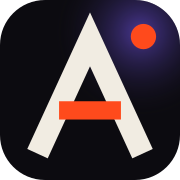
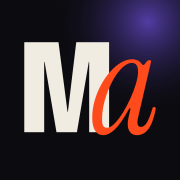
Replace the "A." mark with a "Ma" monogram
The new logo pairs the site's two type voices: a heavy condensed
Bricolage Grotesque M with an orange Instrument Serif italic a, baked
from the real font outlines. Regenerated favicon.svg, the 32/192/512 PNG
icons and a full-bleed Apple touch icon. In the navbar the italic a tips
like a pen stroke on hover.

diff --git a/src/components/ui/Logo.jsx b/src/components/ui/Logo.jsx
@@ -1,10 +1,14 @@
-/** "A" monogram — same mark as the favicon. Inherits currentColor. */
+/**
+ * "Ma" monogram — the site's two type voices in one mark: a Bricolage Grotesque
+ * (800, condensed) M with an Instrument Serif italic a. Outlines are baked from the
+ * real fonts, so it renders identically everywhere (favicon.svg uses the same paths).
+ * The M inherits currentColor; the a uses the accent. Hover tilt: .logo-mark in index.css.
+ */
 export default function Logo({ className = '' }) {
   return (
-    <svg viewBox="0 0 64 64" className={className} aria-hidden="true">
-      <path d="M15 51 L32 14 L49 51" fill="none" stroke="currentColor" strokeWidth="8" strokeLinejoin="miter" strokeLinecap="square" />
-      <rect x="21" y="36" width="22" height="6.5" fill="var(--accent)" />
-      <circle cx="51" cy="13" r="4.5" fill="var(--accent)" />
+    <svg viewBox="7 14 50 36" className={`logo-mark ${className}`} aria-hidden="true">
+      <path className="lm-m" fill="currentColor" d="M8.63 47L8.63 15L20.8 15L24 39.73L24.15 39.73L27.11 15L38.79 15L38.79 47L31.71 47L31.71 22.03L31.57 22.03L27.35 47L20.08 47L15.86 22.03L15.71 22.03L15.71 47Z" />
+      <path className="lm-a" fill="var(--accent)" d="M36.7 48.06Q34.85 48.06 33.82 46.47Q32.79 44.87 32.79 41.79Q32.79 38.86 33.61 35.9Q34.44 32.94 35.88 30.27Q37.32 27.59 39.14 25.54Q40.97 23.48 43 22.27Q45.03 21.06 47.04 21.06Q48.01 21.06 48.89 21.45Q49.76 21.83 50.33 22.66Q50.64 23.12 50.94 23.12Q51.25 23.12 51.56 22.66Q52.13 21.83 52.49 21.6Q52.85 21.37 53.16 21.37Q53.82 21.37 53.67 22.09L49.09 41.79Q48.32 45.13 50.12 45.13Q51.3 45.13 52.26 43.54Q53.21 41.94 54.18 38.6Q54.34 38.03 54.85 38.03Q55.21 38.03 55.32 38.34Q55.42 38.65 55.32 39.06Q54.34 43.9 52.69 45.98Q51.05 48.06 48.73 48.06Q46.73 48.06 45.88 46.37Q45.03 44.67 45.7 41.74L46.37 38.91Q46.47 38.55 46.24 38.5Q46.01 38.45 45.85 38.75Q43.02 43.95 40.84 46.01Q38.65 48.06 36.7 48.06ZM37.98 45.44Q39.22 45.44 40.71 43.95Q42.2 42.46 43.67 40.09Q45.13 37.73 46.37 35Q47.6 32.27 48.35 29.75Q49.09 27.23 49.09 25.49Q49.09 22.35 46.88 22.35Q45.54 22.35 44.05 23.56Q42.56 24.77 41.2 26.82Q39.84 28.88 38.73 31.48Q37.62 34.07 36.96 36.88Q36.29 39.68 36.29 42.35Q36.29 44.15 36.72 44.8Q37.16 45.44 37.98 45.44Z" />
     </svg>
   )
 }

diff --git a/src/components/layout/Navbar.jsx b/src/components/layout/Navbar.jsx
@@ -63,8 +63,8 @@ export default function Navbar() {
         <nav className="container-x flex h-[var(--nav-h)] items-center justify-between gap-4" aria-label="Main">
           {/* Brand */}
           <TransitionLink to="/" className="nav-item group flex items-center gap-3" aria-label={`${site.name} — home`}>
-            <span className="grid size-11 place-items-center rounded-full border border-line bg-bg/60 backdrop-blur-md transition-transform duration-700 ease-expo group-hover:rotate-[360deg]">
-              <Logo className="size-5 text-fg" />
+            <span className="grid size-11 place-items-center rounded-full border border-line bg-bg/60 backdrop-blur-md transition-colors duration-500 group-hover:border-fg">
+              <Logo className="w-6 text-fg" />
             </span>
             <span className="type-label hidden sm:flex flex-col leading-tight">
               <span className="roll">

diff --git a/src/index.css b/src/index.css
@@ -255,6 +255,25 @@
   pointer-events: none;
 }
 
+/* "Ma" logo — the italic a tips like a pen stroke when its link is hovered */
+.logo-mark {
+  overflow: visible;
+}
+.logo-mark .lm-a,
+.logo-mark .lm-m {
+  transform-box: fill-box;
+  transition: transform 0.8s var(--ease-expo);
+}
+.logo-mark .lm-a {
+  transform-origin: 30% 95%;
+}
+.group:hover .logo-mark .lm-a {
+  transform: rotate(-16deg) translate(6%, -6%);
+}
+.group:hover .logo-mark .lm-m {
+  transform: translateY(-4%);
+}
+
 /* 47Home workshop card — blueprint grid + CSS-3D wireframe cubes */
 .blueprint {
   background-image:

diff --git a/src/pages/About.jsx b/src/pages/About.jsx
@@ -23,7 +23,7 @@ function IdCard() {
       <div className="pointer-events-none absolute -bottom-1/3 -left-1/4 size-[80%] rounded-full bg-accent-2/35 blur-[70px]" />
       <div className="relative flex h-full flex-col justify-between [transform:translateZ(40px)]">
         <div className="flex items-start justify-between">
-          <Logo className="size-10 text-fg" />
+          <Logo className="w-14 text-fg" />
           <span className="type-label rounded-full border border-line px-3 py-1.5">Dev ID — {new Date().getFullYear()}</span>
         </div>
         <div>

diff --git a/src/components/layout/Preloader.jsx b/src/components/layout/Preloader.jsx
@@ -172,7 +172,7 @@ export default function Preloader() {
           <div className="type-label flex items-start justify-between gap-4">
             <div className="flex items-center gap-3 overflow-hidden">
               <span className="pl-in inline-flex items-center gap-3">
-                <Logo className="size-6 text-bone" />
+                <Logo className="w-8 text-bone" />
                 {site.name}
               </span>
             </div>

diff --git a/CLAUDE.md b/CLAUDE.md
@@ -104,6 +104,7 @@ Components render from these files; to change content, edit data only.
 - **Pinned ScrollTriggers** on Home: `Path.jsx` (horizontal) and `ClientWork.jsx` (store showcase; its length is `STEP × stores`). `ScrollReset` in `RootLayout` refreshes on route change *and* whenever document height changes (fonts, split text, lazy content); the footer reveal uses `refreshPriority: -1` so it is measured after the pins. New scroll effects near the page bottom should do the same.
 - **`Reveal` animates `opacity`, not `autoAlpha`,** on purpose — `visibility: hidden` would make content unreachable by keyboard Tab.
 - **Cursor ring size uses width/height, not `scale`,** so labels stay sharp.
+- **Logo / favicons:** the "Ma" monogram (Bricolage 800 condensed M + Instrument Serif italic a) is stored as baked SVG paths, identical in `components/ui/Logo.jsx` and `public/favicon.svg`; `favicon-32.png`, `icon-192/512.png` and the full-bleed `apple-touch-icon.png` are renders of the same SVG. Change them together.
 - **React hooks lint is strict:** no ref reads during render, no setState in effects. Use CSS variables written from effects or tickers (see ScrollRail's `--th`), or the prev-value pattern.
 - **Display-type sizing** uses `svh`/`vw` clamps tuned so the hero fits a laptop viewport and the Path cards don't clip; test at roughly 1366×768 and phone width after touching them. Footer `LivingName` auto-fits its text to the container width.
 - **Bundle:** vendor chunks (react, gsap, motion, three) are split manually in `vite.config.js`; HeroScene is lazy-loaded and only renders after the preloader (`active` prop). Keep Three.js out of the main chunk.
